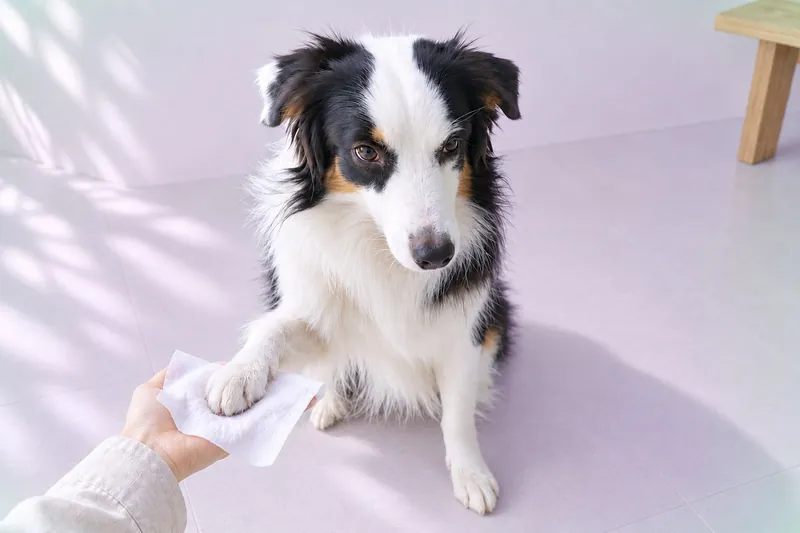
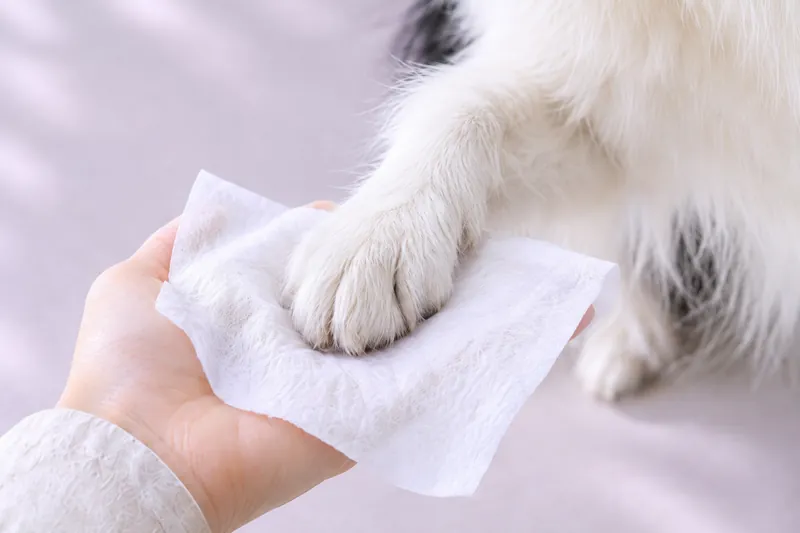
Add files via upload

diff --git a/404.html b/404.html
@@ -23,8 +23,8 @@
 <link rel="preconnect" href="https://fonts.googleapis.com">
 <link rel="preconnect" href="https://fonts.gstatic.com" crossorigin>
 <link rel="stylesheet" href="https://fonts.googleapis.com/css2?family=Cardo:ital,wght@0,400;0,700;1,400&family=Noto+Serif+KR:wght@400;500&display=swap">
-<link rel="stylesheet" href="/assets/css/site.css?v=2">
-<script src="/assets/js/site.js?v=2" defer></script>
+<link rel="stylesheet" href="/assets/css/site.css?v=3">
+<script src="/assets/js/site.js?v=3" defer></script>
 </head>
 <body>
 <a class="skip" href="#main">본문 바로가기</a>

diff --git a/index.html b/index.html
@@ -23,8 +23,8 @@
 <link rel="preconnect" href="https://fonts.googleapis.com">
 <link rel="preconnect" href="https://fonts.gstatic.com" crossorigin>
 <link rel="stylesheet" href="https://fonts.googleapis.com/css2?family=Cardo:ital,wght@0,400;0,700;1,400&family=Noto+Serif+KR:wght@400;500&display=swap">
-<link rel="stylesheet" href="/assets/css/site.css?v=2">
-<script src="/assets/js/site.js?v=2" defer></script>
+<link rel="stylesheet" href="/assets/css/site.css?v=3">
+<script src="/assets/js/site.js?v=3" defer></script>
 </head>
 <body>
 <a class="skip" href="#main">본문 바로가기</a>

diff --git a/privacy.html b/privacy.html
@@ -23,8 +23,8 @@
 <link rel="preconnect" href="https://fonts.googleapis.com">
 <link rel="preconnect" href="https://fonts.gstatic.com" crossorigin>
 <link rel="stylesheet" href="https://fonts.googleapis.com/css2?family=Cardo:ital,wght@0,400;0,700;1,400&family=Noto+Serif+KR:wght@400;500&display=swap">
-<link rel="stylesheet" href="/assets/css/site.css?v=2">
-<script src="/assets/js/site.js?v=2" defer></script>
+<link rel="stylesheet" href="/assets/css/site.css?v=3">
+<script src="/assets/js/site.js?v=3" defer></script>
 </head>
 <body>
 <a class="skip" href="#main">본문 바로가기</a>

diff --git a/scents.html b/scents.html
@@ -23,8 +23,8 @@
 <link rel="preconnect" href="https://fonts.googleapis.com">
 <link rel="preconnect" href="https://fonts.gstatic.com" crossorigin>
 <link rel="stylesheet" href="https://fonts.googleapis.com/css2?family=Cardo:ital,wght@0,400;0,700;1,400&family=Noto+Serif+KR:wght@400;500&display=swap">
-<link rel="stylesheet" href="/assets/css/site.css?v=2">
-<script src="/assets/js/site.js?v=2" defer></script>
+<link rel="stylesheet" href="/assets/css/site.css?v=3">
+<script src="/assets/js/site.js?v=3" defer></script>
 </head>
 <body>
 <a class="skip" href="#main">본문 바로가기</a>

diff --git a/story.html b/story.html
@@ -23,8 +23,8 @@
 <link rel="preconnect" href="https://fonts.googleapis.com">
 <link rel="preconnect" href="https://fonts.gstatic.com" crossorigin>
 <link rel="stylesheet" href="https://fonts.googleapis.com/css2?family=Cardo:ital,wght@0,400;0,700;1,400&family=Noto+Serif+KR:wght@400;500&display=swap">
-<link rel="stylesheet" href="/assets/css/site.css?v=2">
-<script src="/assets/js/site.js?v=2" defer></script>
+<link rel="stylesheet" href="/assets/css/site.css?v=3">
+<script src="/assets/js/site.js?v=3" defer></script>
 </head>
 <body>
 <a class="skip" href="#main">본문 바로가기</a>

diff --git a/terms.html b/terms.html
@@ -23,8 +23,8 @@
 <link rel="preconnect" href="https://fonts.googleapis.com">
 <link rel="preconnect" href="https://fonts.gstatic.com" crossorigin>
 <link rel="stylesheet" href="https://fonts.googleapis.com/css2?family=Cardo:ital,wght@0,400;0,700;1,400&family=Noto+Serif+KR:wght@400;500&display=swap">
-<link rel="stylesheet" href="/assets/css/site.css?v=2">
-<script src="/assets/js/site.js?v=2" defer></script>
+<link rel="stylesheet" href="/assets/css/site.css?v=3">
+<script src="/assets/js/site.js?v=3" defer></script>
 </head>
 <body>
 <a class="skip" href="#main">본문 바로가기</a>

diff --git a/assets/css/site.css b/assets/css/site.css
@@ -181,6 +181,7 @@ p { margin: 0; text-wrap: pretty; }
 .scene--aw .scene-ph { background: var(--aw); }
 .scene--pd .scene-ph { background: var(--pd); }
 .scene--pd .scene-ph img { object-position: 12% 50%; }
+.scene--aw .scene-ph img, .scent--aw .scent-ph img { object-position: 58% 50%; }
 .scene--cd .scene-ph { background: var(--cd); }
 .scene-num { font-family: var(--latin); font-size: 15px; letter-spacing: 0.2em; color: var(--muted); }
 .scene h3 { font-size: 22px; display: flex; align-items: baseline; gap: 12px; }

diff --git a/_src/build.py b/_src/build.py
@@ -9,7 +9,7 @@ KAKAO = 'https://pf.kakao.com/_eRvNX'
 INSTAGRAM = 'https://www.instagram.com/guitin.official/'
 EMAIL = 'guitin.official@gmail.com'
 STIBEE = 'https://page.stibee.com/subscriptions/532247'
-VERSION = '2'
+VERSION = '3'
 
 ICON_MENU = '<svg viewBox="0 0 24 24" fill="none" stroke="currentColor" stroke-width="1.5" aria-hidden="true"><path d="M4 8h16M4 16h16"/></svg>'
 ICON_CLOSE = '<svg viewBox="0 0 24 24" fill="none" stroke="currentColor" stroke-width="1.5" aria-hidden="true"><path d="M6 6l12 12M18 6L6 18"/></svg>'
